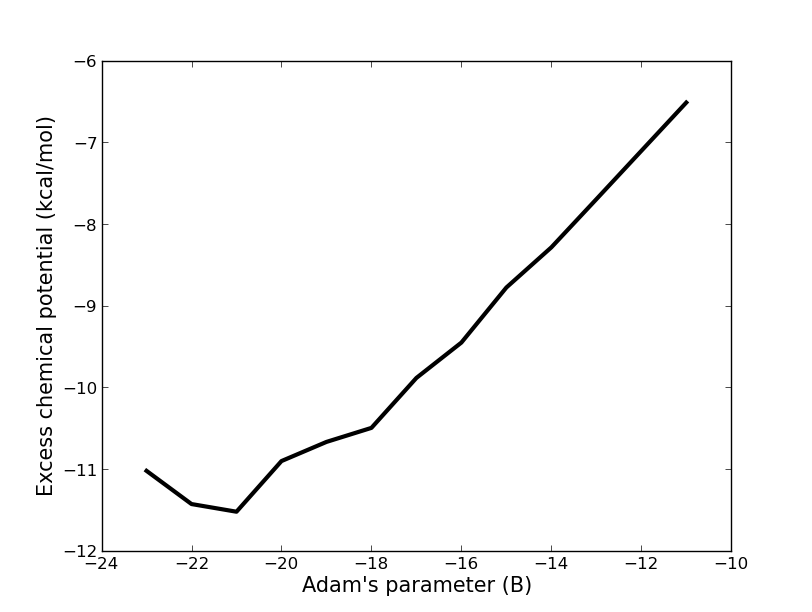
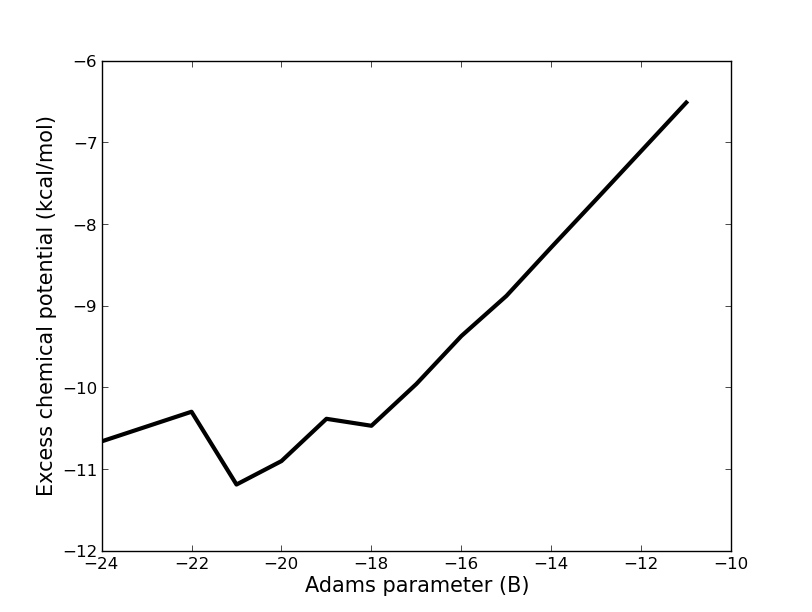
Updated GCMC tutorial for free energy calculations on a single water.

diff --git a/tutorial/gcmc/gcmc_binding_calc.html b/tutorial/gcmc/gcmc_binding_calc.html
@@ -84,19 +84,19 @@ where &lsaquo;<em>N</em>&rsaquo; is the average number of water molecules, <em>B
 
 <pre>python2.7 $PROTOMSHOME/tools/calc_gcsingle.py -d out/b_-* -p</pre>
 
-where the <code>-p</code> flag specifies that titration data and fitted logistic curve will be plotted. The script <code>calc_gcsingle.py</code> estimates the error in the calculated free energy by performing 1000 bootstrap samples of the titration data and refitting the logistic equation each time. The printed results showed look something like:
+where the <code>-p</code> flag specifies that titration data and fitted logistic curve will be plotted. The script <code>calc_gcsingle.py</code> estimates the error in the calculated free energy by performing 1000 bootstrap samples of the titration data and refitting the logistic equation each time. The printed results should look something like:
 
 <pre>
 FREE ENERGY ESTIMATES:
-  Least squares estimate = -12.32 kcal/mol
-  Bootstrap estimate     = -12.32 +/- 0.07 kcal/mol
+  Least squares estimate = -10.57 kcal/mol
+  Bootstrap estimate     = -10.57 +/- 0.19 kcal/mol
 </pre>
 
-The first result, <code>Least squares estimate</code>, is simply the least squares fit of the transfer free energy, and has no error associated with it. The second result, <code>Bootstrap estimate </code> is the estimate that has been calculated via bootstrap sampling. The value quoted is the mean transfer free energy from all bootstrap samples, and the error is the standard deviation. 
+The first result, <code>Least squares estimate</code>, is simply the least squares fit of the transfer free energy, and has no error associated with it. The second result, <code>Bootstrap estimate </code> is the estimate that has been calculated via bootstrap sampling. The value quoted is the mean transfer free energy from all bootstrap samples, and the error is the standard deviation from those samples. To get the binding free energy of water for the GCMC region, simply take the difference of the transfer free energy and hydration free energy of water. ProtoMS calculates the hydration free energy of water to be about -6.2 kcal/mol, so the binding energy is roughly -10.6 + 6.2 = -4.4 kcal/mol.
 
-<p> Two plots will have been produced when calling <code>calc_gcsingle.py</code>. Like the results, one shows the least squares fit of the logistic function, and the second shows the results of the bootstrap sampling and fitting, and is probably more informative. For the latter, you will probably see something like
+<p> Two plots will have been produced when calling <code>calc_gcsingle.py</code>. Like the results, one shows the least squares fit of the logistic function, and the second shows the results of the bootstrap sampling and fitting, and is probably more informative. For the latter, you may see something like<br>
 
-<img src="bootstapp_sampleschem.png" width="%" height="50%" alt="" /><br>
+<img src="bootstrap_samples.png" width="%" height="50%" alt="" /><br>
 
 The red line marks the median of the all the bootstrap fits, the orange and grey areas contain 50% and 90% of all the fits respectively. To be clear, these errors illustrate the uncertainty of the fit, not the GCMC titration data. The error produced from the bootstrap sampling can be reduced with data more GCMC simulations, particularly at Adams values near the point of inflection.
 <p>
@@ -117,7 +117,7 @@ which brings up a plot for the excess chemical potential. As you can see, the li
 One could enter
 <pre> -17 -24 </pre>
 
-as the line seems flatest between these values. The excess chemical potential is averaged over this range, which produces our estimate for the coupling free energy. You should the predict </em>&Delta;F</em><sub>trans</sub> to be about -10 kcal/mol.
+as the line seems flatest between these values. The excess chemical potential is averaged over this range, which produces our estimate for the coupling free energy. You should predict </em>&Delta;F</em><sub>trans</sub> to be about -10.5 kcal/mol.
 <p>
 <h3>Exploring more options</h3>
 Here, we'll consider some points that will help with the set-up and execution of GCMC on a single water molecule.
